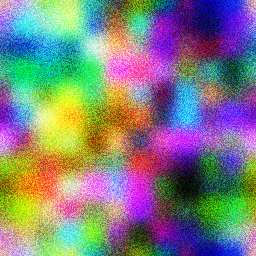
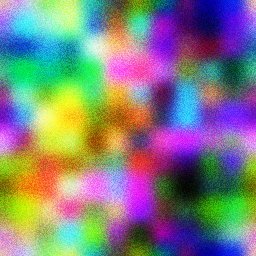
Tuning: the grain of the threshold map is 0.08, not 0.15, for cleaner snow and frost edges

diff --git a/tools/art/cover.py b/tools/art/cover.py
@@ -33,7 +33,7 @@ LEAF_TILES = 16
 # Value noise: the size of the lattice cells in tiles, with their weights, and the weight of the
 # grain of single pixels.
 NOISE_SCALES = ((4.0, 0.55), (1.5, 0.3))
-GRAIN_WEIGHT = 0.15
+GRAIN_WEIGHT = 0.08
 # Fallen leaves per tile on the leaf texture, and the colours they come in, each with the darker
 # colour of the shaded pixel of the leaf.
 LEAVES_PER_TILE = {32: 20, 16: 10}
